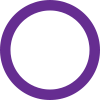
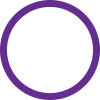
adds absolutely positioned doouble rings

Changed region(s): [[0.06, 0.06, 0.93, 0.93]]

diff --git a/ionic/scss/ionic.app.scss b/ionic/scss/ionic.app.scss
@@ -61,6 +61,34 @@ $moneyGreen:				#038312;
           transform: $scale;
 }
 
+@mixin animation-name($name) {
+	-webkit-animation-name: $name;
+     -moz-animation-name: $name;
+      -ms-animation-name: $name;
+          animation-name: $name;
+}
+
+@mixin animation-duration($duration) {
+	-webkit-animation-duration: $duration;
+     -moz-animation-duration: $duration;
+      -ms-animation-duration: $duration;
+          animation-duration: $duration;
+}
+
+@mixin animation-iteration-count($count) {
+	-webkit-animation-iteration-count: count;
+     -moz-animation-iteration-count: count;
+      -ms-animation-iteration-count: count;
+          animation-iteration-count: count;
+}
+
+@mixin animation-timing-function($timing) {
+	-webkit-animation-timing-function: $timing;
+     -moz-animation-timing-function: $timing;
+      -ms-animation-timing-function: $timing;
+          animation-timing-function: $timing;
+}
+
 /*********** POST NEW EVENT MODAL **********/
 
 #addPhotoButton {
@@ -555,17 +583,15 @@ $moneyGreen:				#038312;
 
 .marker {
 	height: 50px;
+	position: absolute;
 	cursor: pointer;
 	-webkit-filter: drop-shadow(3px 4px 6px rgba(0,0,0,0.65));
   filter: url(#drop-shadow);
   -ms-filter: "progid:DXImageTransform.Microsoft.Dropshadow(OffX=12, OffY=12, Color='#444')";
   filter: "progid:DXImageTransform.Microsoft.Dropshadow(OffX=12, OffY=12, Color='#444')";
-	position: relative;
-	top: -50px;
-	left: -25px;
 
   &.popularity-1 {
-    // glow
+    box-shadow: 0 0 44px rgba(255,255,255,1) , 0 0 20px rgba(255,255,255,1) , 0 0 30px rgba(255,255,255,1) , 0 0 74px #ff00de , 0 0 110px #ff00de , 0 0 148px #ff00de , 0 0 100px #ff00de ;
   }
   &.popularity-2 {
     // glow
@@ -594,33 +620,41 @@ $moneyGreen:				#038312;
   }
 }
 
-.happening {
-	position: relative;
-	top: -50px;
-	left: -50px;
+.happening, .happening2 {
+	position: absolute;
+	top: 46px;
+	left: -25px;
 	-webkit-animation-name: grow;
-	-webkit-animation-duration: 1000ms;
+	-webkit-animation-duration: 1400ms;
 	-webkit-animation-iteration-count: infinite;
 	-webkit-animation-timing-function: linear;
 }
 
+.happening {
+	-webkit-animation-delay: 700ms;
+}
+
+.happening2 {
+
+}
+
 @-webkit-keyframes grow {
     from { 
-    	-webkit-transform: scale(0);
+    	@include transform(scale(0));
     	opacity: 1; 
     }
     to { 
-    	-webkit-transform: scale(0.8); 
+    	@include transform(scale(0.7)); 
     	opacity: 0;
     }
 }
 
-.notHappening {
+.notHappening, .notHappening2 {
 	height: 0px;
 }
 
 .richmarker {
 	position: relative;
-	height: 1px;
-	width: 1px;    
+	height: 50px;
+	width: 50px;    
 }

diff --git a/ionic/www/css/ionic.app.css b/ionic/www/css/ionic.app.css
@@ -414,37 +414,46 @@ $dark:                            #444 !default;
 /*********** MARKERS *************/
 .marker {
   height: 50px;
+  position: absolute;
   cursor: pointer;
   -webkit-filter: drop-shadow(3px 4px 6px rgba(0, 0, 0, 0.65));
   filter: url(#drop-shadow);
   -ms-filter: "progid:DXImageTransform.Microsoft.Dropshadow(OffX=12, OffY=12, Color='#444')";
-  filter: "progid:DXImageTransform.Microsoft.Dropshadow(OffX=12, OffY=12, Color='#444')";
-  position: relative;
-  top: -50px;
-  left: -25px; }
+  filter: "progid:DXImageTransform.Microsoft.Dropshadow(OffX=12, OffY=12, Color='#444')"; }
+  .marker.popularity-1 {
+    box-shadow: 0 0 44px white, 0 0 20px white, 0 0 30px white, 0 0 74px #ff00de, 0 0 110px #ff00de, 0 0 148px #ff00de, 0 0 100px #ff00de; }
 
-.happening {
-  position: relative;
-  top: -50px;
-  left: -50px;
+.happening, .happening2 {
+  position: absolute;
+  top: 46px;
+  left: -25px;
   -webkit-animation-name: grow;
-  -webkit-animation-duration: 1000ms;
+  -webkit-animation-duration: 1400ms;
   -webkit-animation-iteration-count: infinite;
   -webkit-animation-timing-function: linear; }
+
+.happening {
+  -webkit-animation-delay: 700ms; }
 
 @-webkit-keyframes grow {
   from {
     -webkit-transform: scale(0);
+    -moz-transform: scale(0);
+    -ms-transform: scale(0);
+    transform: scale(0);
     opacity: 1; }
 
   to {
-    -webkit-transform: scale(0.8);
+    -webkit-transform: scale(0.7);
+    -moz-transform: scale(0.7);
+    -ms-transform: scale(0.7);
+    transform: scale(0.7);
     opacity: 0; } }
 
-.notHappening {
+.notHappening, .notHappening2 {
   height: 0px; }
 
 .richmarker {
   position: relative;
-  height: 1px;
-  width: 1px; }
+  height: 50px;
+  width: 50px; }

diff --git a/ionic/www/app/markers/marker.factory.js b/ionic/www/app/markers/marker.factory.js
@@ -107,6 +107,7 @@ angular.module('radar')
         + popularity
         + '">'
         + '<img src="' + ringUrl + '" class="ring '+ happeningNow + ' " /></div>'
+        + '<img src="' + ringUrl + '" class="ring '+ happeningNow + '2 " /></div>'
         + '<img src="' + markerUrl + '" class="marker" /></div>';
 
       markers.push(new RichMarker({
